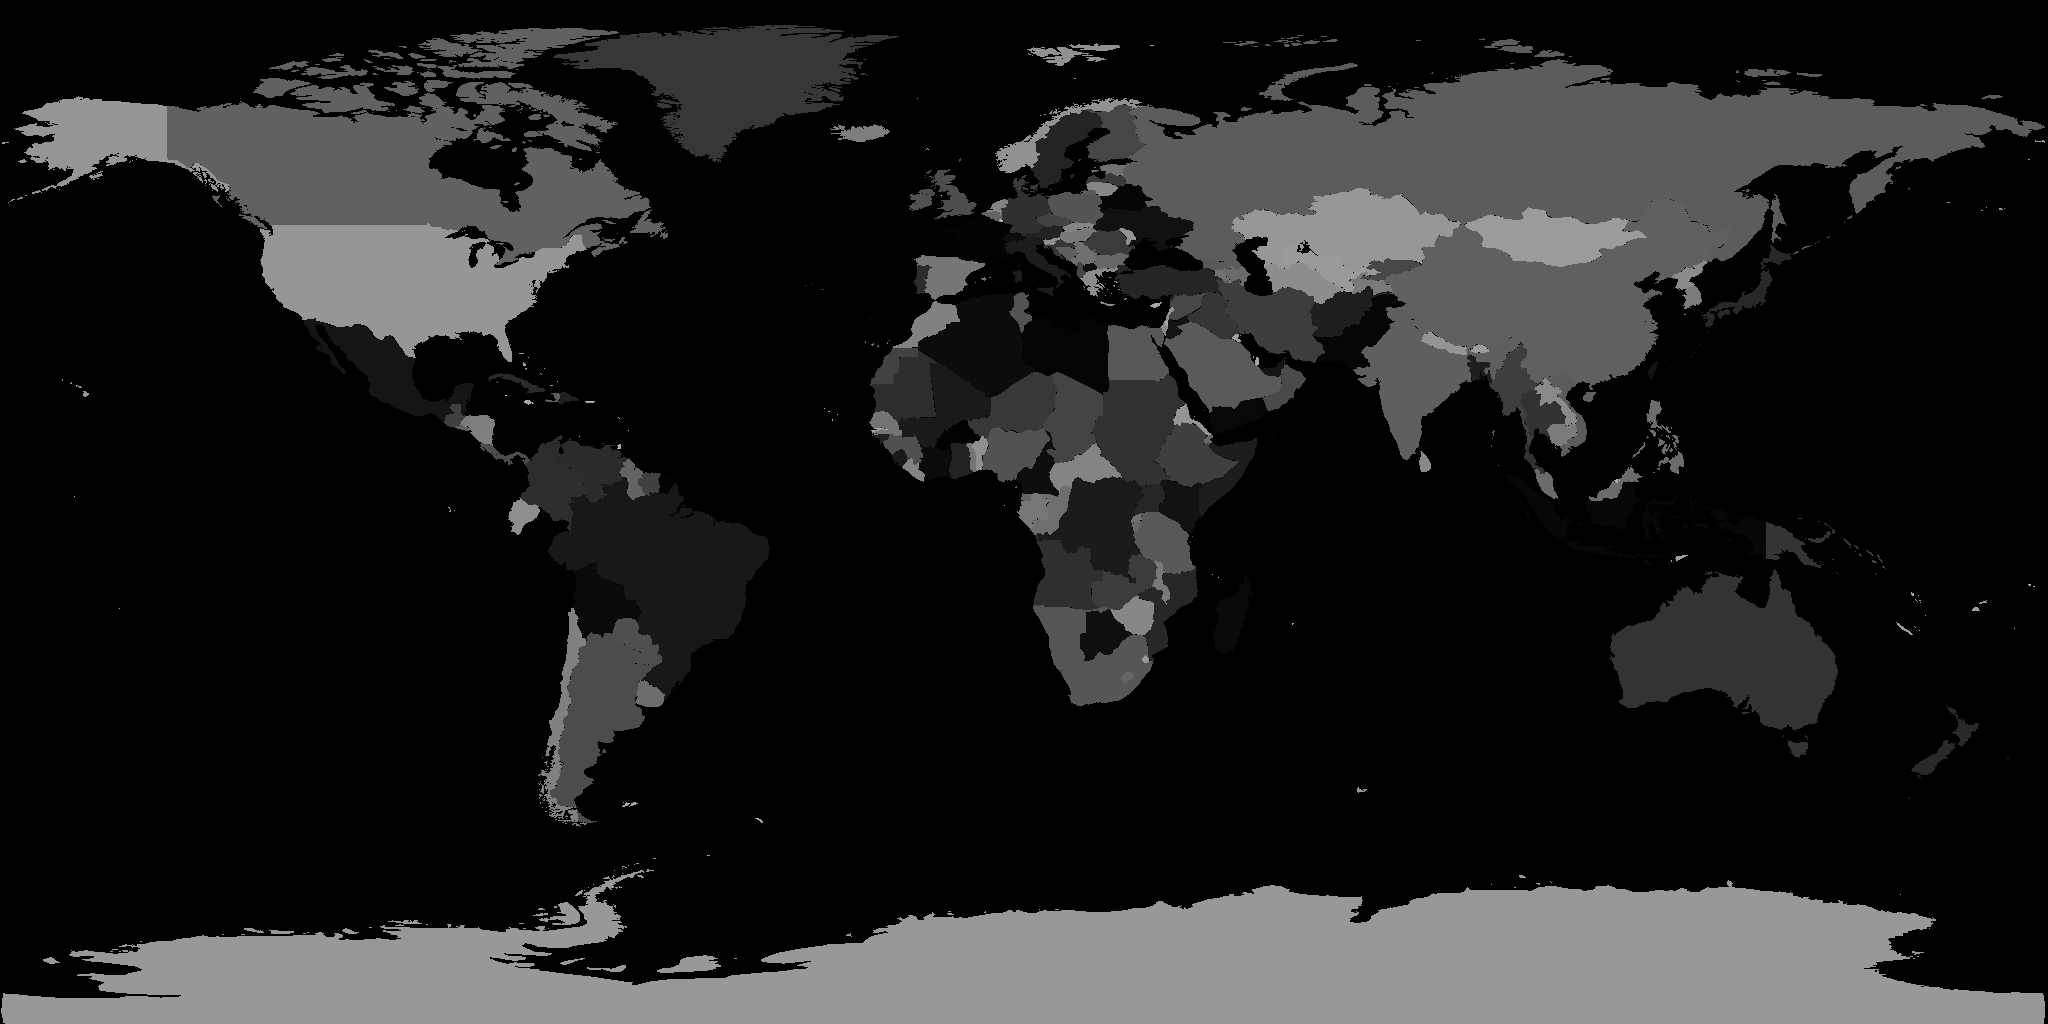
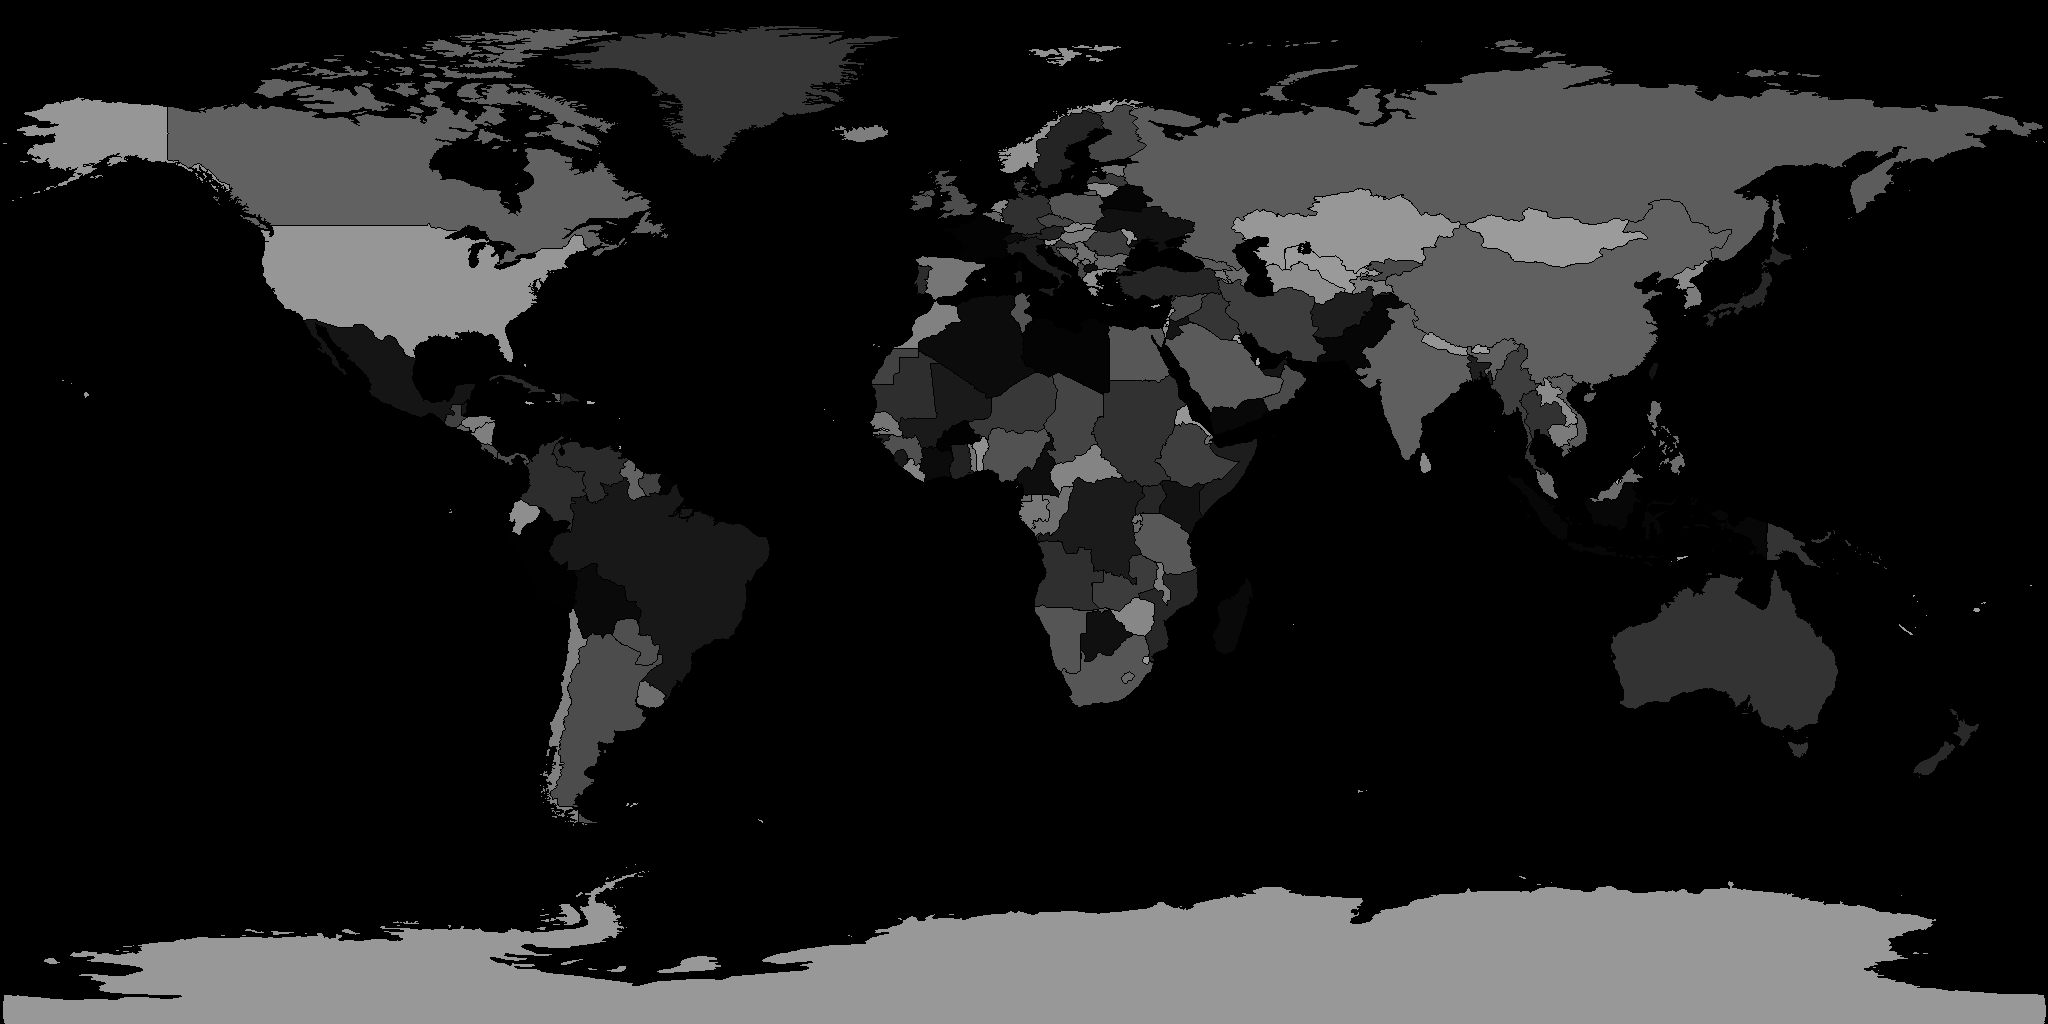
+ refined globe map highlight functionality + now highlighting countries based on $ amount + re-did markers so they are css/div layers with typography elements

diff --git a/js/markers.js b/js/markers.js
@@ -10,27 +10,85 @@ function onMarkerHover( event ){
 		console.log('clicked on something!!');				
 }
 
-function attachMarkerToCountry( countryName ){
+function attachMarkerToCountry( countryName, importance ){
 	//	look up the name to mesh
 	countryName = countryName.toUpperCase();
 	var country = countryData[countryName];
 	if( country === undefined )
 		return;
-	country.marker = new SVGToy( assetList[0], overlay );
-	country.marker.update = function(){
-		var matrix = rotating.matrixWorld;
-		var abspos = matrix.multiplyVector3( country.center.clone() );
-		var screenPos = screenXY(abspos);
-		country.marker.setPosition( screenPos.x, screenPos.y,0 );	
-		if( abspos.z > 60 )
-			country.marker.show();
-		else
-			country.marker.hide();
+
+	var container = document.getElementById( 'visualization' );	
+	var template = document.getElementById( 'marker_template' );
+	var marker = template.cloneNode(true);
+
+	country.marker = marker;
+	container.appendChild( marker );
+
+	marker.importance = importance;
+
+	marker.setPosition = function(x,y,z){
+		this.style.left = x + 'px';
+		this.style.top = y + 'px';	
+		this.style.zIndex = z;
 	}
 
-	country.marker.svg.addEventListener( 'click', onMarkerHover, false );
+	marker.setVisible = function( vis ){
+		if( ! vis )
+			this.style.display = 'none';
+		else{
+			this.style.display = 'inline';
+		}
+	}
 
-	markers.push( country.marker );
+	var detailLayer = marker.querySelector( '#detailText' );
+	marker.detailLayer = detailLayer;
+
+	marker.setSize = function( s ){		
+		this.style.fontSize = s + 'pt';		
+		this.detailLayer.style.fontSize = Math.floor( 2 + s/2 ) + 'pt';
+	}
+
+	marker.update = function(){
+		var matrix = rotating.matrixWorld;
+		var abspos = matrix.multiplyVector3( country.center.clone() );
+		var screenPos = screenXY(abspos);			
+
+		var s = 0.2 + camera.scale.z * 3;
+		var importanceScale = this.importance / 10000000;
+		importanceScale = constrain( importanceScale, 0, 18 );
+		s += importanceScale;
+		this.setSize( s ); 
+
+		this.setVisible( ( abspos.z > 60 ) && s > 6 );	
+
+		var zIndex = Math.floor( 1000 - abspos.z + s );
+		this.setPosition( screenPos.x, screenPos.y, zIndex );	
+	}
+
+	var nameLayer = marker.querySelector( '#countryText' );
+	nameLayer.innerHTML = countryName;
+	
+	if( country.exportedAmount > 0 )
+		detailLayer.innerHTML = "exported: $" + numberWithCommas(country.exportedAmount) + "<br>";
+
+	if( country.importedAmount > 0 )
+		detailLayer.innerHTML += "imported: $" + numberWithCommas(country.importedAmount);	
+
+	// country.marker = new SVGToy( assetList[0], overlay );
+	// country.marker.update = function(){
+	// 	var matrix = rotating.matrixWorld;
+	// 	var abspos = matrix.multiplyVector3( country.center.clone() );
+	// 	var screenPos = screenXY(abspos);
+	// 	country.marker.setPosition( screenPos.x, screenPos.y,0 );	
+	// 	if( abspos.z > 60 )
+	// 		country.marker.show();
+	// 	else
+	// 		country.marker.hide();
+	// }
+
+	// country.marker.svg.addEventListener( 'click', onMarkerHover, false );
+
+	markers.push( marker );
 }		
 
 function removeMarkerFromCountry( countryName ){
@@ -44,6 +102,7 @@ function removeMarkerFromCountry( countryName ){
 	var index = markers.indexOf(country.marker);
 	if( index >= 0 )
 		markers.splice( index, 1 );
-	country.marker.removeFromDom();
+	var container = document.getElementById( 'visualization' );		
+	container.removeChild( country.marker );
 	country.marker = undefined;		
 }

diff --git a/js/main.js b/js/main.js
@@ -206,13 +206,19 @@ function initScene() {
 	lookupTexture.minFilter = THREE.NearestFilter;
 	lookupTexture.needsUpdate = true;
 
-	var indexedMapTexture = THREE.ImageUtils.loadTexture( "images/map_indexed.png" );
+	var indexedMapTexture = THREE.ImageUtils.loadTexture( 'images/map_indexed.png' );
 	indexedMapTexture.needsUpdate = true;
 	indexedMapTexture.magFilter = THREE.NearestFilter;
 	indexedMapTexture.minFilter = THREE.NearestFilter;
+
+	var outlinedMapTexture = THREE.ImageUtils.loadTexture( 'images/map_outline.png' );
+	// outlinedMapTexture.magFilter = THREE.NearestFilter;
+	// outlinedMapTexture.minFilter = THREE.NearestFilter;
+
 	var uniforms = {
 		'mapIndex': { type: 't', value: 0, texture: indexedMapTexture  },		
 		'lookup': { type: 't', value: 1, texture: lookupTexture },
+		'outline': { type: 't', value: 2, texture: outlinedMapTexture },
 	};
 
 	var shaderMaterial = new THREE.ShaderMaterial( {
@@ -381,7 +387,8 @@ var countryColorMap = {'PE':1,
 'AW':210,'LI':211,'VG':212,'SH':213,'JE':214,'AI':215,'MF_1_':216,'GG':217,'SM':218,'BM':219,'TV':220,'NR':221,'GI':222,'PN':223,'MC':224,'VA':225,
 'IM':226,'GU':227,'SG':228};
 
-function highlightCountry( countries ){				
+function highlightCountry( countries ){	
+
 	var countryCodes = [];
 	for( var i in countries ){
 		var code = findCode(countries[i]);
@@ -392,13 +399,28 @@ function highlightCountry( countries ){
 	ctx.clearRect(0,0,256,1);
 
 	//	color index 0 is the ocean, leave it something neutral
-	ctx.fillStyle = 'rgb(100,100,100)';
+	ctx.fillStyle = 'rgb(10,10,10)';
 	ctx.fillRect( 0, 0, 1, 1 );
+
+	// for( var i = 0; i<255; i++ ){
+	// 	var fillCSS = 'rgb(' + i + ',' + 0 + ',' + i + ')';
+	// 	ctx.fillStyle = fillCSS;
+	// 	ctx.fillRect( i, 0, 1, 1 );
+	// }
 	
-	ctx.fillStyle = 'rgb(255,255,255)';
 	for( var i in countryCodes ){
 		var countryCode = countryCodes[i];
 		var colorIndex = countryColorMap[ countryCode ];
+
+		var mapColor = countryData[countries[i]].mapColor;
+		// var fillCSS = '#ff0000';
+		var fillCSS = '#000000';
+		if( mapColor !== undefined ){
+			var k = map( mapColor, 0, 200000000, 0, 255 );
+			k = Math.floor( constrain( k, 0, 255 ) );
+			fillCSS = 'rgb(' + k + ',' + k + ',' + k + ')';
+		}
+		ctx.fillStyle = fillCSS;
 		ctx.fillRect( colorIndex, 0, 1, 1 );
 	}
 	

diff --git a/js/visualize.js b/js/visualize.js
@@ -129,11 +129,32 @@ function getVisualizedMesh( linearData, year, countries, action, categories ){
 
 			if( $.inArray( exporterName, affectedCountries ) < 0 ){
 				affectedCountries.push(exporterName);
-			}			
+			}							
 
 			if( $.inArray( importerName, affectedCountries ) < 0 ){
 				affectedCountries.push(importerName);
 			}
+
+			var vb = set.v;
+			var exporterCountry = countryData[exporterName];
+			if( exporterCountry.mapColor === undefined ){
+				exporterCountry.mapColor = vb;
+			}
+			else{				
+				exporterCountry.mapColor += vb;
+			}			
+
+			var importerCountry = countryData[importerName];
+			if( importerCountry.mapColor === undefined ){
+				importerCountry.mapColor = vb;
+			}
+			else{				
+				importerCountry.mapColor += vb;
+			}	
+
+			exporterCountry.exportedAmount += vb;
+			importerCountry.importedAmount += vb;		
+
 		}		
 	}
 
@@ -227,6 +248,13 @@ function getVisualizedMesh( linearData, year, countries, action, categories ){
 }
 
 function selectVisualization( linearData, year, countries, action, categories ){
+	//	clear off the country's internally held color data we used from last highlight
+	for( var i in countryData ){
+		var country = countryData[i];
+		country.exportedAmount = 0;
+		country.importedAmount = 0;
+		country.mapColor = 0;
+	}
 
 	//	clear markers
 	for( var i in selectableCountries ){
@@ -248,8 +276,9 @@ function selectVisualization( linearData, year, countries, action, categories ){
 	visualizationMesh.add( mesh );	
 
 	for( var i in mesh.affectedCountries ){
-		var country = mesh.affectedCountries[i];
-		attachMarkerToCountry( country );
+		var countryName = mesh.affectedCountries[i];
+		var country = countryData[countryName];
+		attachMarkerToCountry( countryName, country.mapColor );
 	}
 
 	// console.log( mesh.affectedCountries );

diff --git a/index.html b/index.html
@@ -10,6 +10,13 @@
 
 	<body onload="start()" id="dataviz" class="">
 
+		<div id="marker_template" class="marker" style="left:'0px';top:'0px'">
+			<span id="countryText" class="country">
+			</span>
+			<span id="detailText" class="detail">
+			</span>
+		</div>
+
 		<div id="visualization" >			
 			<!-- 2D overlay elements go in here -->
 
@@ -90,6 +97,7 @@
 		<script id="globeFragmentShader" type="x-shader/x-fragment">	
 			uniform sampler2D mapIndex;
 			uniform sampler2D lookup;
+			uniform sampler2D outline;
 			varying vec3 vNormal;
 			varying vec2 vUv;	
 			void main() {				
@@ -101,7 +109,10 @@
 				vec2 lookupUV = vec2( indexedColor, 0. );
 				vec4 lookupColor = texture2D( lookup, lookupUV );				
 				float mask = lookupColor.x;
-				gl_FragColor = vec4( mask * 0.95 );											
+				float outlineColor = texture2D( outline, vUv ).x;
+				gl_FragColor = vec4( lookupColor.x + outlineColor, lookupColor.y + outlineColor, lookupColor.z + outlineColor, 1.  );						
+				// gl_FragColor = vec4( lookupColor );												
+				// gl_FragColor = vec4(texture2D( lookup, vUv ).xyz,1.);
 			}
 		</script>			
 

diff --git a/style.css b/style.css
@@ -215,4 +215,31 @@ a.button.pause:hover {
 	width:						100%;
 	height:						100%;
 	pointer-events:				none;
-}			
+}		
+
+.marker {
+	position:				absolute;
+	display:				inline-block;
+	/*width:					100px;
+	height:					20px;*/
+	background-color: 		rgba(0,0,0,.87);	
+	color:					#ffffff;
+	font-size:				4pt;
+	-moz-user-select:		-moz-none;
+	-khtml-user-select:		none;
+	-webkit-user-select:	none;
+	margin: 				0px;
+	border:					0px;
+	padding:				10px;
+	overflow: 				hidden;		
+}	
+
+.country {
+	float:					left;
+	margin-right:			10px;
+}
+
+.detail {
+	color:					#aaaaaa;
+	float:					right;
+}

diff --git a/js/geopins.js b/js/geopins.js
@@ -23,8 +23,8 @@ function loadGeoData( latlonData ){
         var lon = country.lon;
         var lat = country.lat;
         
-        var phi = Math.PI/2 - lat * Math.PI / 180;
-        var theta = 2 * Math.PI - lon * Math.PI / 180 + Math.PI * 0.05;
+        var phi = Math.PI/2 - lat * Math.PI / 180 - Math.PI * 0.01;
+        var theta = 2 * Math.PI - lon * Math.PI / 180 + Math.PI * 0.06;
 		
 		var center = new THREE.Vector3();                
         center.x = Math.sin(phi) * Math.cos(theta) * rad;

diff --git a/js/util.js b/js/util.js
@@ -96,3 +96,11 @@ function buildHexColumnGeo(rad, height){
 	var extrudedGeo = new THREE.ExtrudeGeometry(shape, options);
 	return extrudedGeo;	    	
 }
+
+function map(v, i1, i2, o1, o2) {
+   return o1 + (o2 - o1) * (v - i1) / (i2 - i1);
+ }
+
+ function numberWithCommas(x) {
+    return x.toString().replace(/\B(?=(\d{3})+(?!\d))/g, ",");
+}

diff --git a/js/mousekeyboard.js b/js/mousekeyboard.js
@@ -51,7 +51,7 @@ function onKeyDown( event ){
 
 function handleMWheel( delta ) {
 	camera.scale.z += delta * 0.1;
-	camera.scale.z = constrain( camera.scale.z, 0.8, 2.4 );
+	camera.scale.z = constrain( camera.scale.z, 0.8, 3.5 );
 }
 
 function onMouseWheel( event ){
